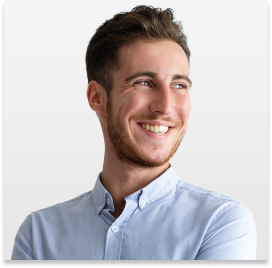
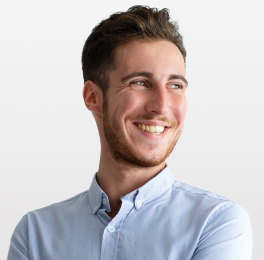
hww-07

diff --git a/css/styles.css b/css/styles.css
@@ -76,8 +76,8 @@ img {
   padding-left: 16px;
   padding-right: 16px;
 
-  outline: 2px solid red;
-  outline-offset: -2px;
+  /* outline: 2px solid red;
+  outline-offset: -2px; */
 }
 /* @media screen and (min-width: 428px) {
   .container {
@@ -648,7 +648,7 @@ img {
   display: flex;
   align-items: baseline;
 }
-@media only screen and (max-width: 768px) {
+@media only screen and (max-width: 767px) {
   .footer-container {
     flex-direction: column;
     gap: 72px;
@@ -656,7 +656,7 @@ img {
     align-items: center;
   }
 }
-@media only screen and (min-width: 769px) and (max-width: 1157px) {
+@media only screen and (min-width: 768px) and (max-width: 1157px) {
   .footer-container {
     flex-direction: column;
     justify-content: center;
@@ -675,7 +675,7 @@ img {
     align-items: baseline;
   }
 }
-@media only screen and (min-width: 769px) and (max-width: 1157px) {
+@media only screen and (min-width: 768px) and (max-width: 1157px) {
   .section-footer {
     align-items: baseline;
   }
@@ -704,7 +704,7 @@ img {
   }
 }
 
-@media only screen and (min-width: 769px) and (max-width: 1157px) {
+@media only screen and (min-width: 768px) and (max-width: 1157px) {
   .social-footer {
     align-items: baseline;
   }
@@ -1059,7 +1059,7 @@ img {
     gap: 72px;
   }
 }
-@media only screen and (min-width: 769px) and (max-width: 1157px) {
+@media only screen and (min-width: 768px) and (max-width: 1157px) {
   .section-footer-wrap {
     gap: 24px;
     margin-bottom: 72px;
@@ -1075,7 +1075,7 @@ img {
     justify-content: center;
   }
 }
-@media only screen and (min-width: 769px) and (max-width: 1157px) {
+@media only screen and (min-width: 768px) and (max-width: 1157px) {
   .subscribe-form {
     gap: 24px;
   }

diff --git a/index.html b/index.html
@@ -158,7 +158,7 @@
           <ul class="list-item list">
             <li class="team-item">
               <img
-                src="./images/photo/Mark.jpg"
+                src="./images/photo/Mark_mob@1x.jpg"
                 alt="Mark Guerrero"
                 width="264"
               />
@@ -222,7 +222,11 @@
               </div>
             </li>
             <li class="team-item">
-              <img src="./images/photo/Tom.jpg" alt="Tom Ford" width="264" />
+              <img 
+              src="./images/photo/Tom_mob@1x.jpg" 
+              alt="Tom Ford" 
+              width="264" 
+              />
               <div class="worker">
                 <h3 class="fact-title employees">Tom Ford</h3>
                 <p class="fact-descr-team">Frontend Developer</p>
@@ -284,7 +288,7 @@
             </li>
             <li class="team-item">
               <img
-                src="./images/photo/Camila.jpg"
+                src="./images/photo/Camila_mob@1x.jpg"
                 alt="Camila Garcia"
                 width="264"
               />
@@ -349,7 +353,7 @@
             </li>
             <li class="team-item">
               <img
-                src="./images/photo/Deniel.jpg"
+                src="./images/photo/Daniel_mob@1x.jpg"
                 alt="Daniel Wilson"
                 width="264"
               />
